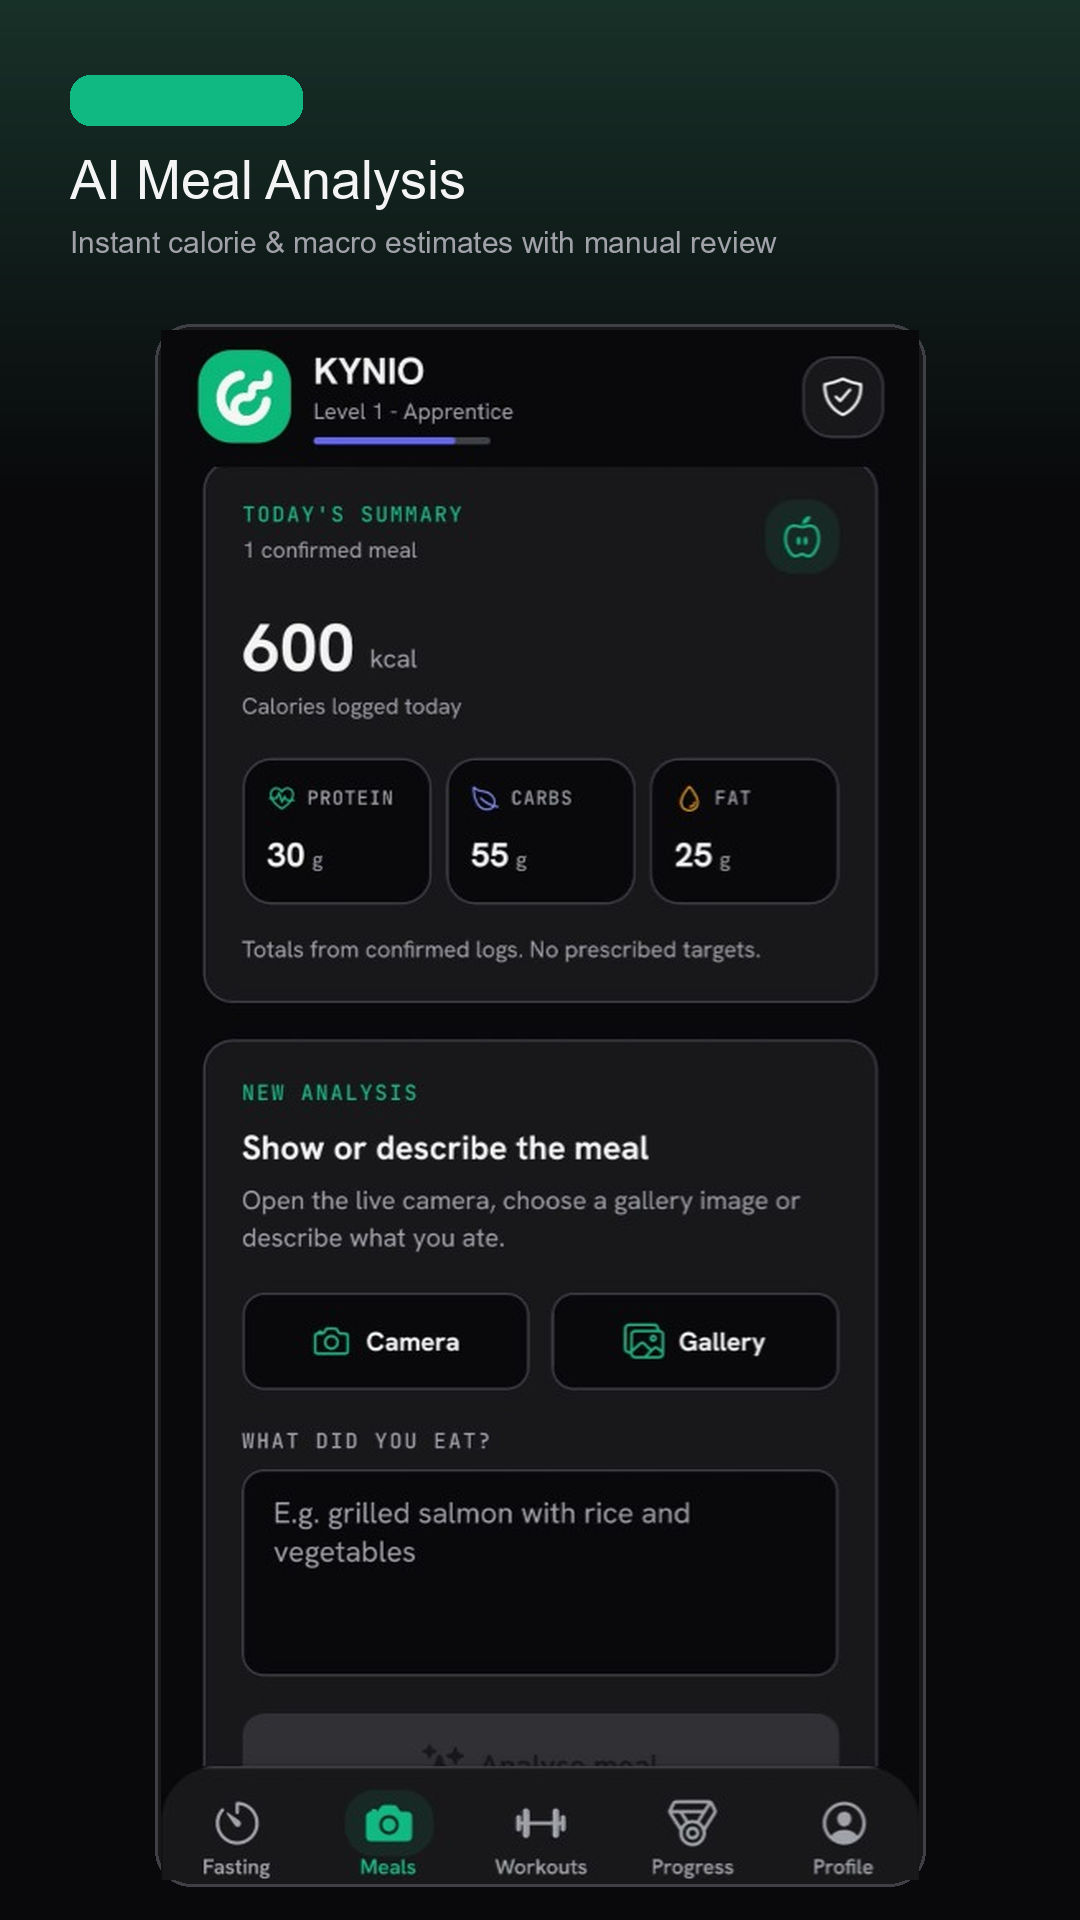
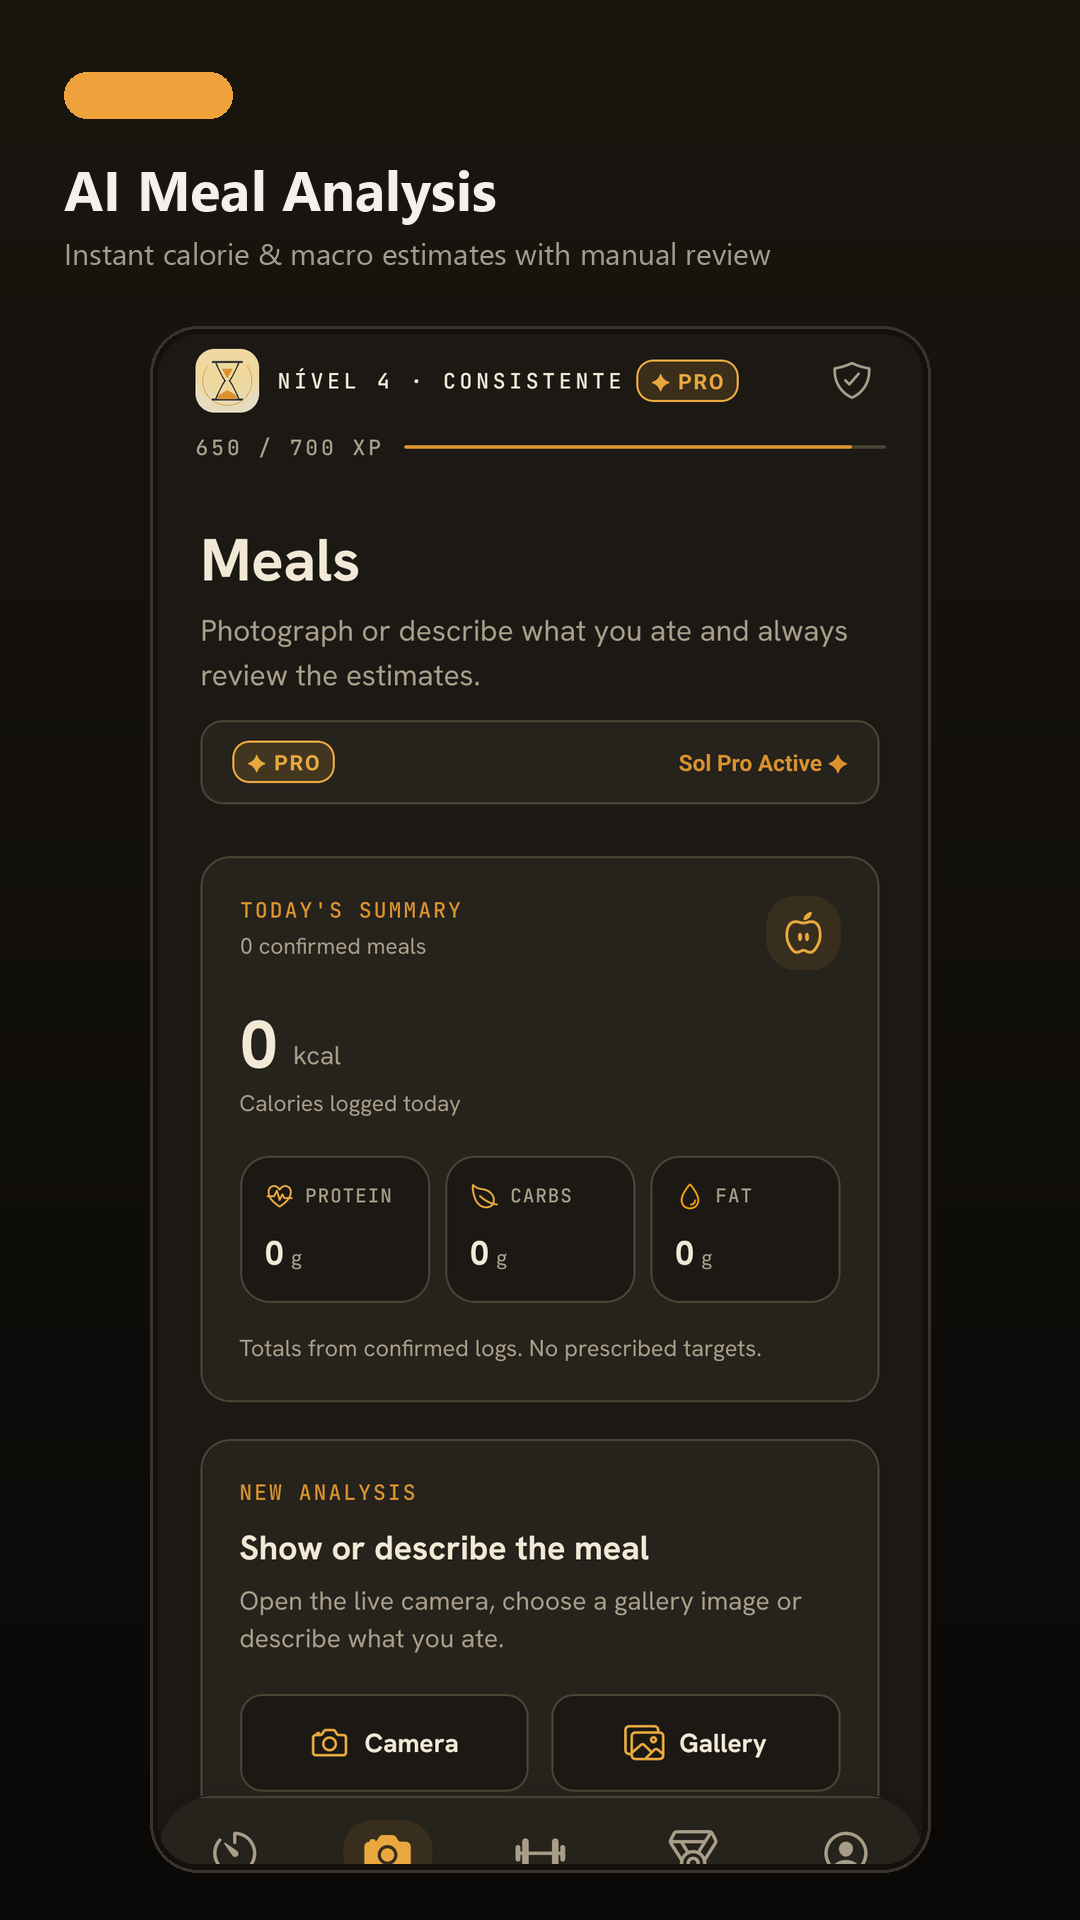
docs: screenshots destaque PT/EN regeneradas (design Circadiano) + script gerador

diff --git a/scripts/generate_store_screenshots.py b/scripts/generate_store_screenshots.py
@@ -1,0 +1,118 @@
+"""Gera screenshots "destaque" (framed) para a Play Store a partir dos shots diretos.
+
+Layout 1080x1920: fundo escuro quente com gradiente, pill âmbar, título + subtítulo,
+e o screenshot dentro de uma moldura de telemóvel com cantos arredondados.
+
+Uso: python scripts/generate_store_screenshots.py
+"""
+
+from pathlib import Path
+
+from PIL import Image, ImageDraw, ImageFont
+
+ROOT = Path(__file__).resolve().parent.parent
+DIRETOS_PT = ROOT / "store/google-play/screenshots/diretos_1080x1920"
+DIRETOS_EN = ROOT / "store/google-play/screenshots/diretos_en_US"
+OUT_PT = ROOT / "store/google-play/screenshots/destaque_play_store"
+OUT_EN = ROOT / "store/google-play/screenshots/destaque_en_US"
+
+W, H = 1080, 1920
+ACCENT = (240, 163, 60)  # âmbar Circadiano
+BG_TOP = (26, 22, 16)
+BG_BOTTOM = (10, 9, 8)
+TITLE_COLOR = (245, 241, 234)
+SUB_COLOR = (163, 158, 147)
+FRAME_FILL = (20, 17, 13)
+FRAME_BORDER = (58, 51, 43)
+
+TITLE_FONT = ImageFont.truetype("C:/Windows/Fonts/segoeuib.ttf", 56)
+SUB_FONT = ImageFont.truetype("C:/Windows/Fonts/segoeui.ttf", 30)
+
+FRAME_BOX = (150, 326, 930, 1872)  # x0, y0, x1, y1
+FRAME_RADIUS = 48
+INNER_PAD = 8
+
+PT = [
+    ("00_jejum_tracker.png", "Tracker de Jejum Inteligente",
+     "Temporizador adaptativo, objetivos flexíveis e fases"),
+    ("01_refeicoes_nutricao_ia.png", "Análise de Refeições com IA",
+     "Estimativas instantâneas de calorias e macronutrientes"),
+    ("02_treinos_movimento.png", "Movimento ao Teu Ritmo",
+     "Regista atividades, ganha XP e acompanha a semana"),
+    ("03_progresso_gamificado.png", "Progresso & Níveis de XP",
+     "Evolução calculada apenas pelos teus registos locais"),
+    ("04_conquistas_partilha.png", "Conquistas & Partilha",
+     "Cartões visuais para celebrares cada marco alcançado"),
+    ("05_perfil_privacidade.png", "Privacidade Local-First",
+     "Os teus dados guardados de forma 100% segura no teu telemóvel"),
+]
+
+EN = [
+    ("00_fasting_tracker.png", "Smart Fasting Tracker",
+     "Adaptive timer, custom protocols & metabolic phases"),
+    ("01_ai_meal_nutrition.png", "AI Meal Analysis",
+     "Instant calorie & macro estimates with manual review"),
+    ("02_workouts_movement.png", "Move at Your Own Pace",
+     "Log activities, earn XP and track weekly habits"),
+    ("03_gamified_progress.png", "Progress & XP Levels",
+     "Gentle gamification powered by 100% local records"),
+    ("04_achievements_share.png", "Celebrate Milestones",
+     "Clean visual milestone cards ready to share"),
+    ("05_profile_privacy.png", "100% Local-First Privacy",
+     "Your health & fasting data never leaves your device"),
+]
+
+
+def gradient_bg() -> Image.Image:
+    img = Image.new("RGB", (W, H))
+    for y in range(H):
+        t = y / H
+        img.paste(tuple(int(BG_TOP[i] + (BG_BOTTOM[i] - BG_TOP[i]) * t) for i in range(3)),
+                  (0, y, W, y + 1))
+    return img
+
+
+def rounded_paste(base: Image.Image, shot: Image.Image, box, radius: int) -> None:
+    x0, y0, x1, y1 = box
+    w, h = x1 - x0, y1 - y0
+    shot = shot.resize((w, h), Image.LANCZOS)
+    mask = Image.new("L", (w, h), 0)
+    ImageDraw.Draw(mask).rounded_rectangle((0, 0, w, h), radius=radius, fill=255)
+    base.paste(shot, (x0, y0), mask)
+
+
+def render(shot_path: Path, title: str, subtitle: str, out_path: Path) -> None:
+    canvas = gradient_bg()
+    draw = ImageDraw.Draw(canvas)
+
+    # Pill âmbar
+    draw.rounded_rectangle((64, 72, 232, 118), radius=23, fill=ACCENT)
+
+    # Título + subtítulo
+    draw.text((64, 150), title, font=TITLE_FONT, fill=TITLE_COLOR)
+    draw.text((64, 232), subtitle, font=SUB_FONT, fill=SUB_COLOR)
+
+    # Moldura do telemóvel
+    fx0, fy0, fx1, fy1 = FRAME_BOX
+    draw.rounded_rectangle(FRAME_BOX, radius=FRAME_RADIUS,
+                           fill=FRAME_FILL, outline=FRAME_BORDER, width=3)
+
+    # Screenshot dentro da moldura
+    shot = Image.open(shot_path).convert("RGB")
+    rounded_paste(canvas, shot,
+                  (fx0 + INNER_PAD, fy0 + INNER_PAD, fx1 - INNER_PAD, fy1 - INNER_PAD),
+                  radius=FRAME_RADIUS - INNER_PAD)
+
+    canvas.save(out_path)
+    print(out_path.name, "ok")
+
+
+def main() -> None:
+    for name, title, sub in PT:
+        render(DIRETOS_PT / name, title, sub, OUT_PT / name)
+    for name, title, sub in EN:
+        render(DIRETOS_EN / name, title, sub, OUT_EN / name)
+
+
+if __name__ == "__main__":
+    main()
